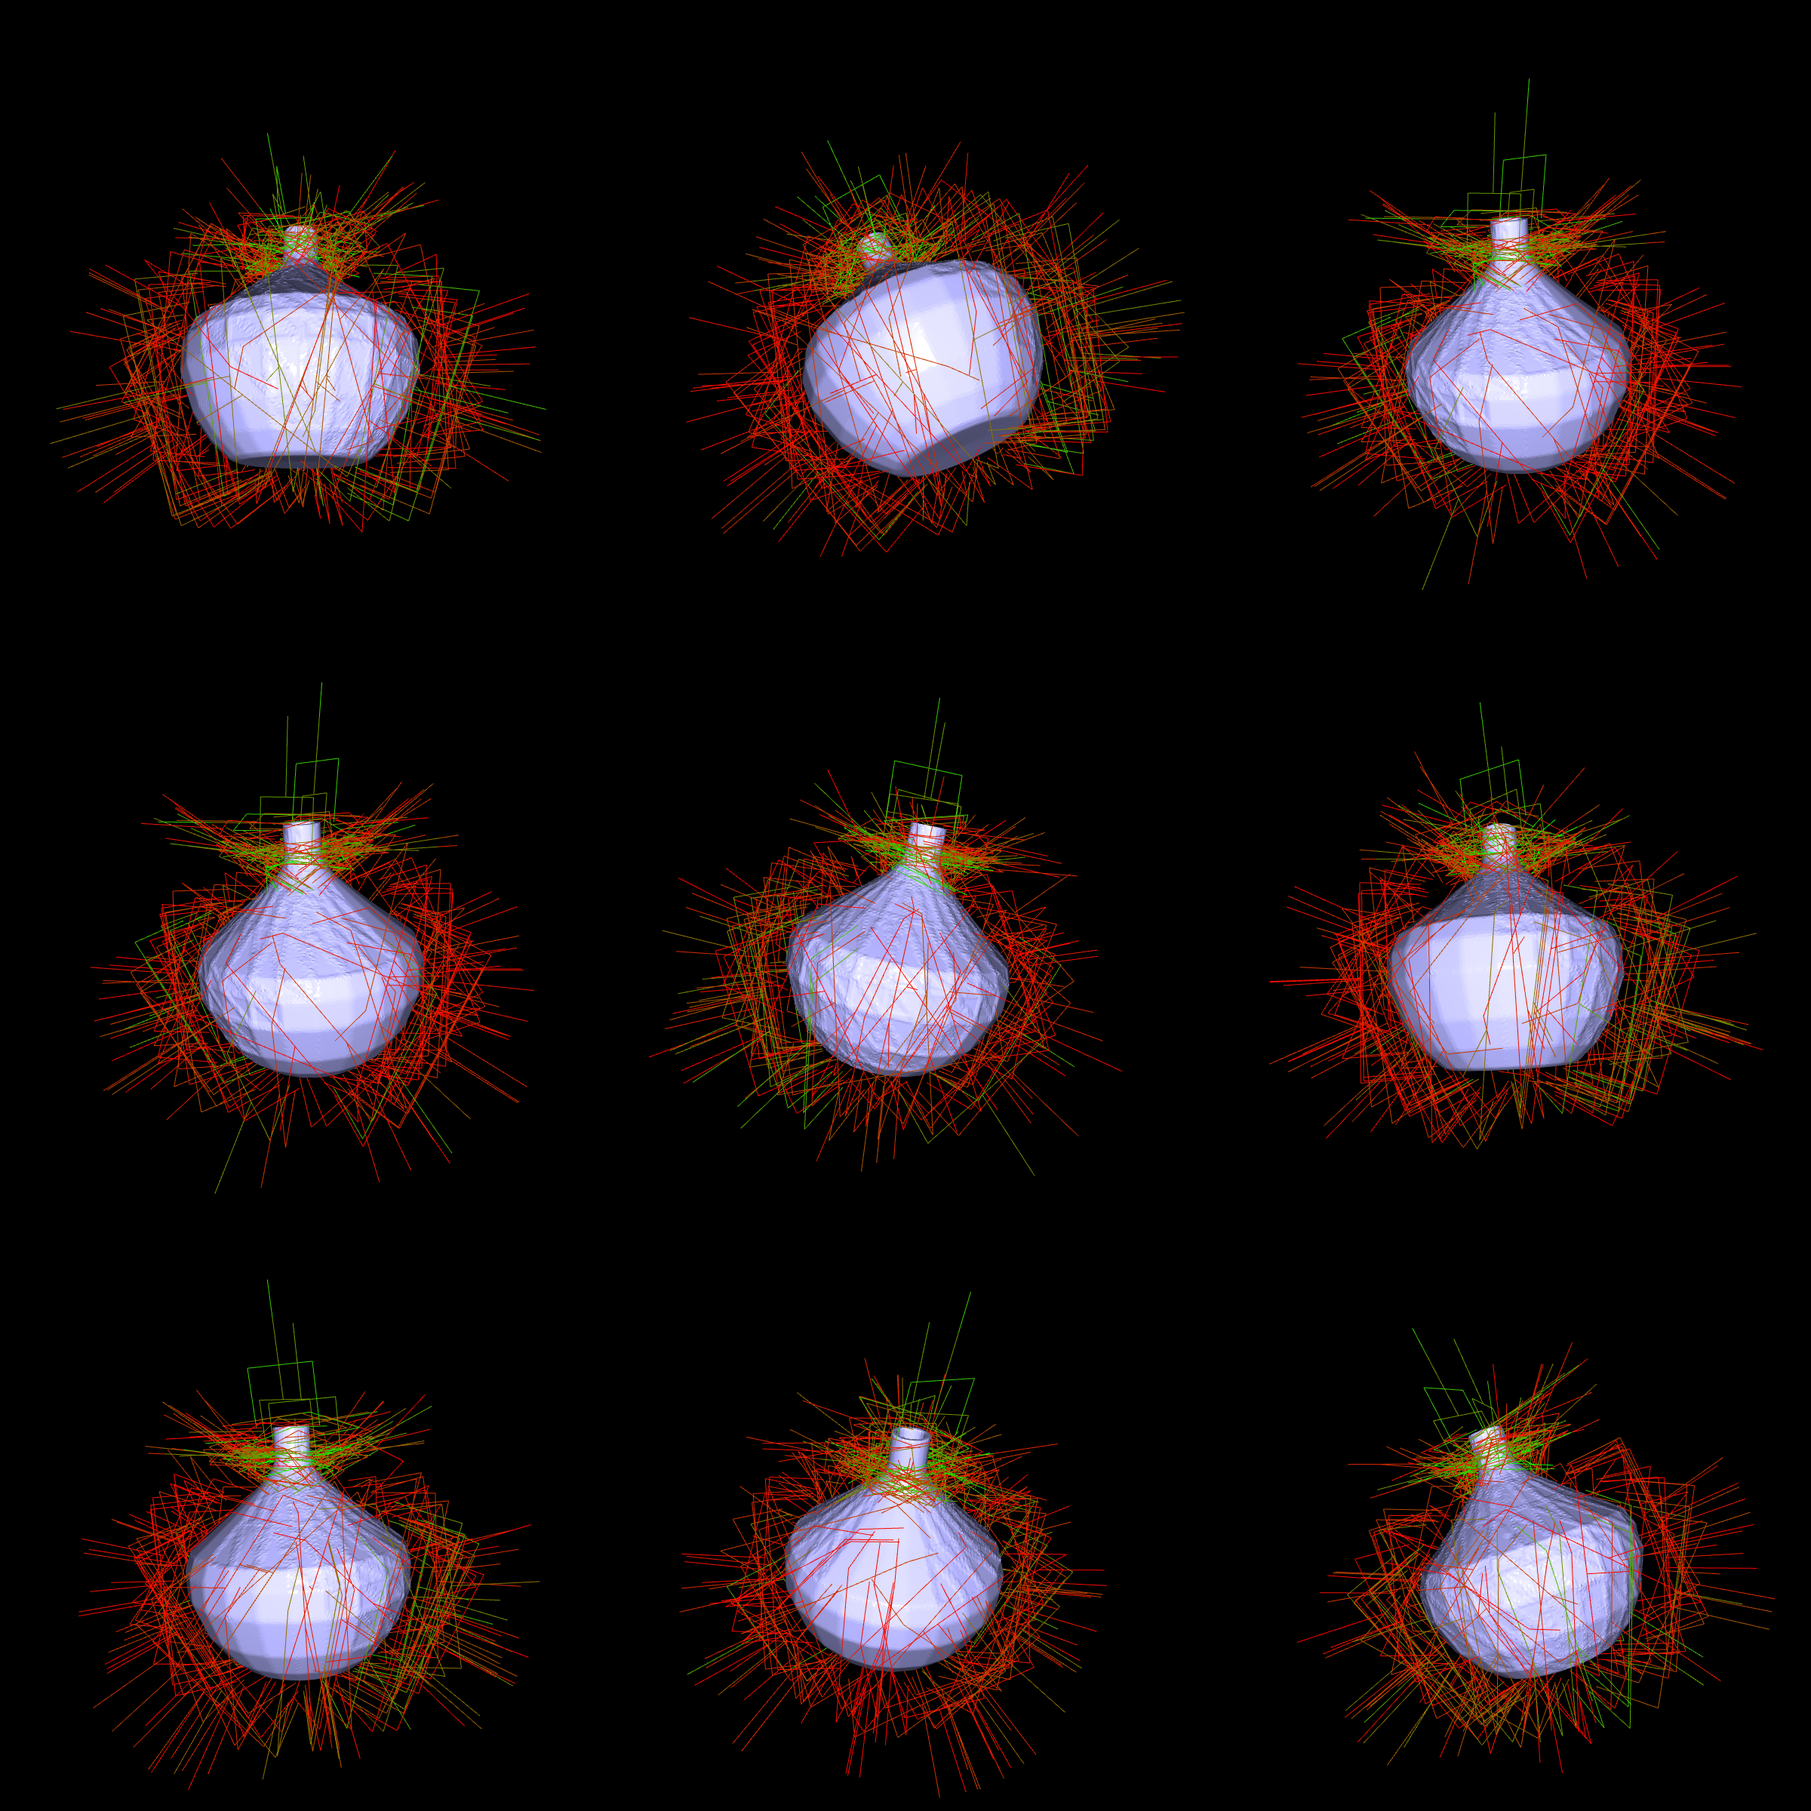
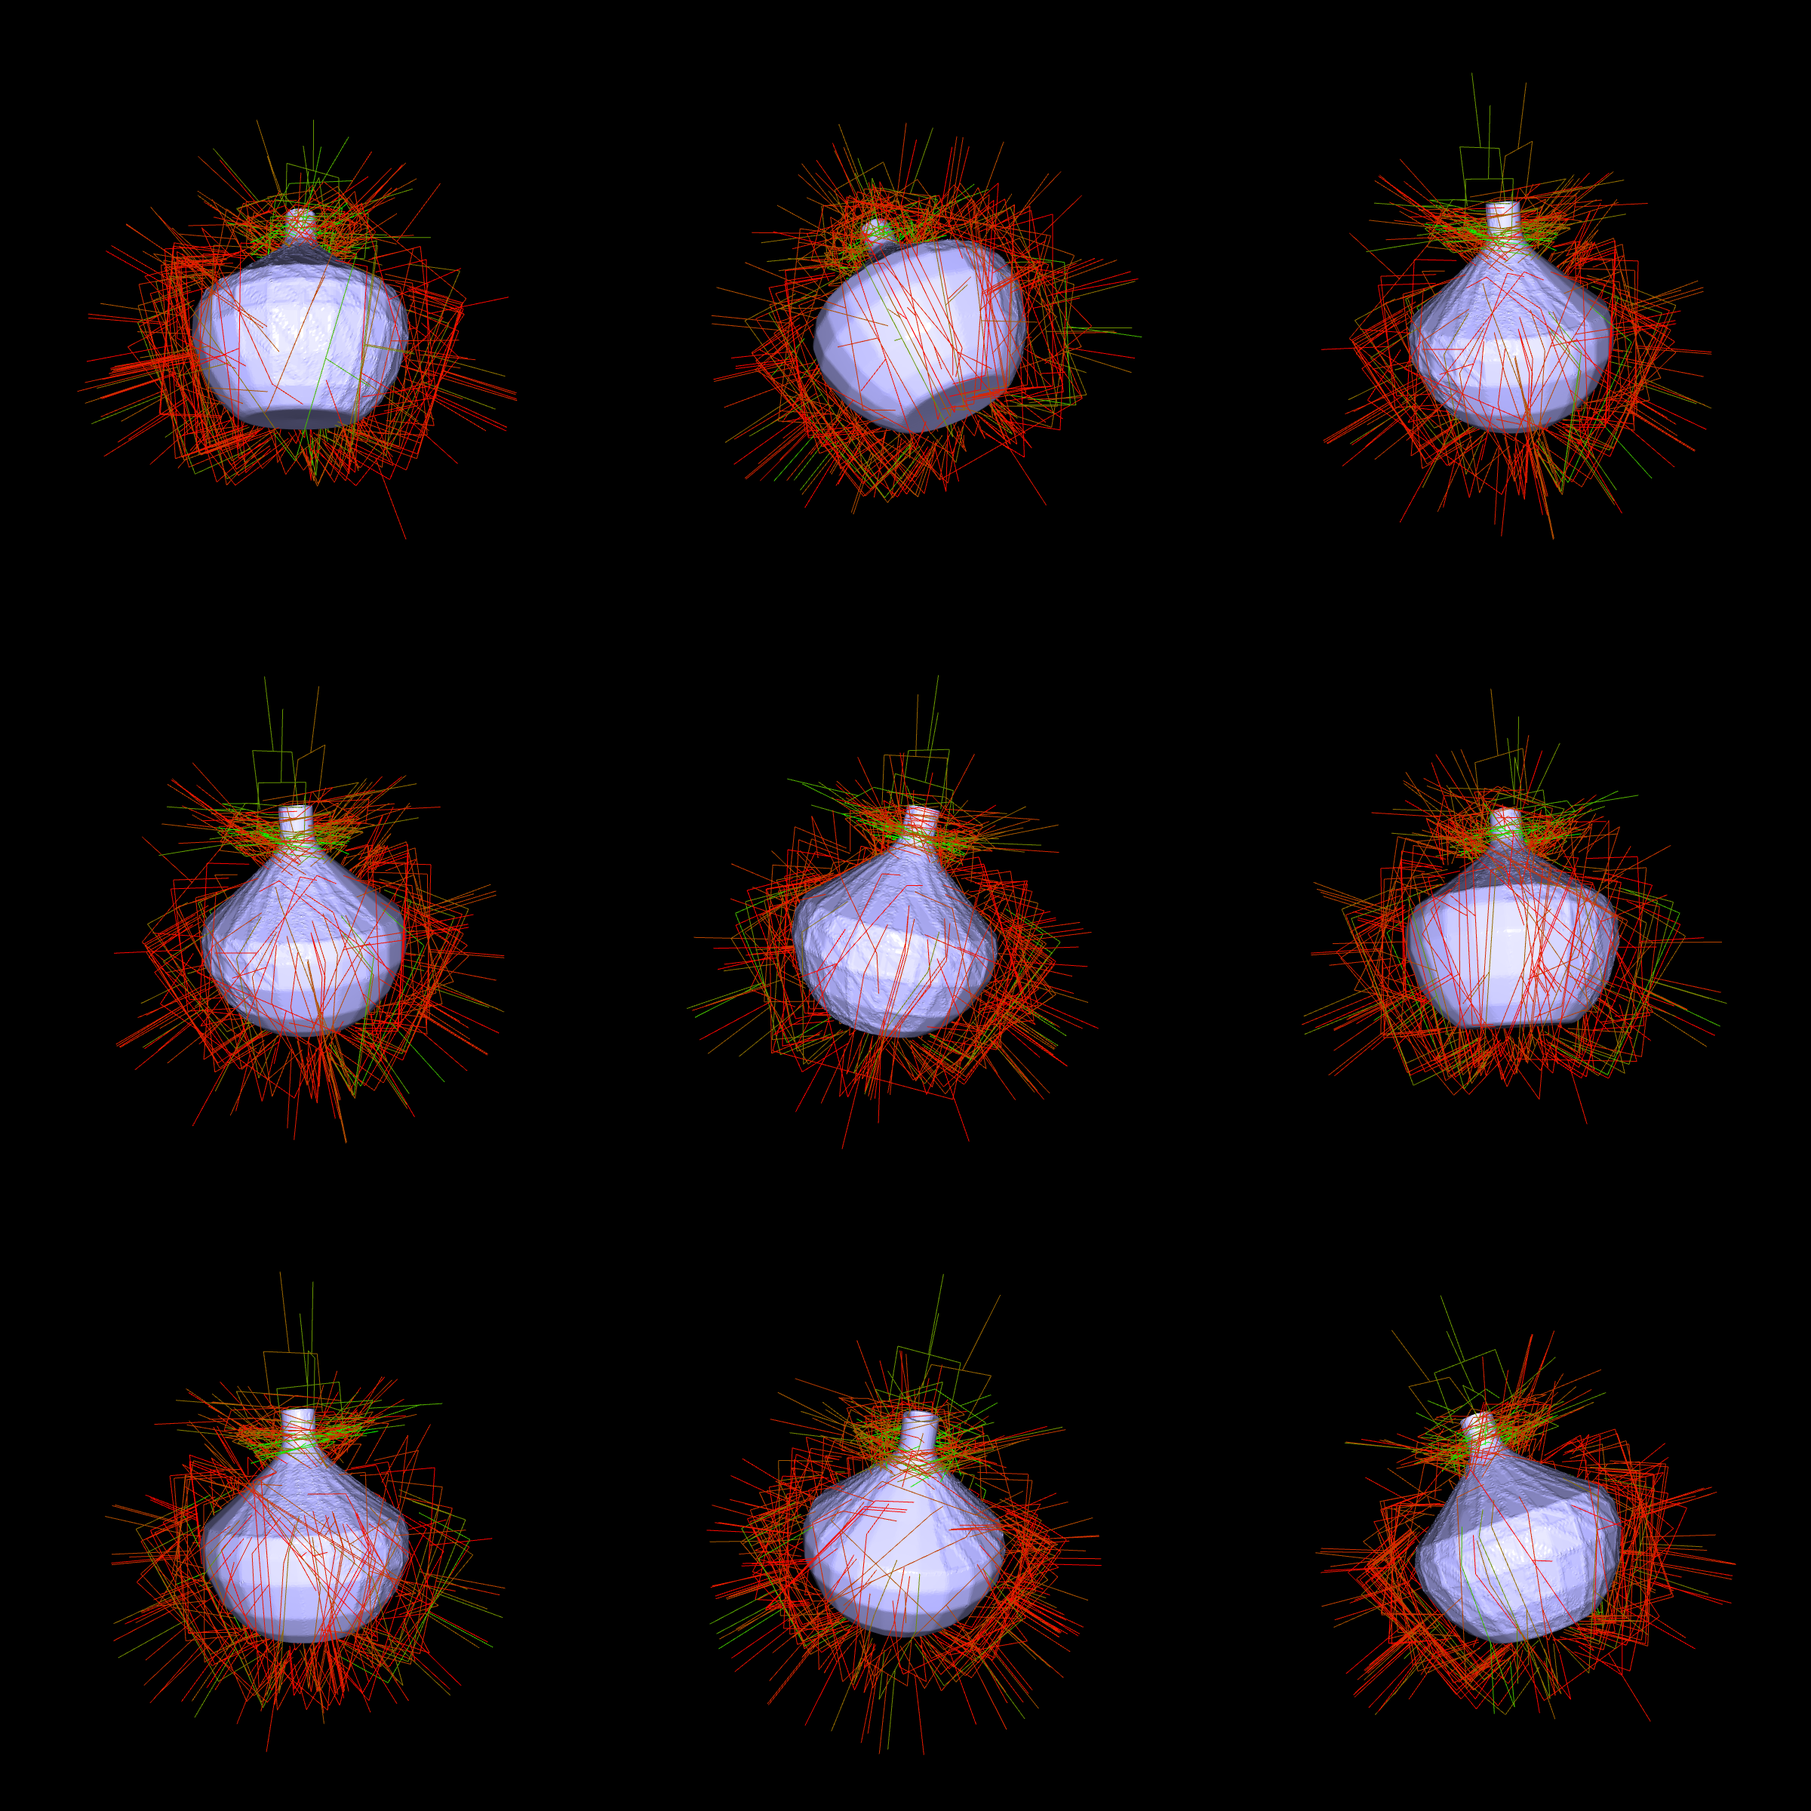
update

diff --git a/scripts/visualize.py b/scripts/visualize.py
@@ -1,8 +1,9 @@
 """
 Visualization script for grasps from a JSON file.
 
-This script supports both interactive and headless rendering modes:
+This script supports both interactive and headless rendering modes with robust fallback handling:
 
+RENDERING MODES:
 1. Headless mode (default): 
    - No display window is shown
    - Suitable for servers without display
@@ -12,16 +13,37 @@ This script supports both interactive and headless rendering modes:
    - Shows interactive 3D window
    - Use --render flag to enable
 
-3. Headless rendering techniques:
-   - Prefers Open3D OffscreenRenderer for true headless operation
-   - Falls back to hidden window rendering if OffscreenRenderer unavailable
-   - Similar to the example provided using OffscreenRenderer
+HEADLESS RENDERING OPTIONS:
+- Traditional (recommended): Stable hidden window method using Open3D Visualizer
+- Experimental: OffscreenRenderer for true headless operation (may have geometry compatibility issues)
 
-Usage examples:
-    python visualize.py object_name                          # Headless mode (no display)
-    python visualize.py object_name --save-png output.png    # Headless + save image
-    python visualize.py object_name --render                 # Interactive mode
-    python visualize.py object_name --display                # Force display mode
+The script automatically falls back to traditional rendering if OffscreenRenderer fails,
+ensuring robust operation across different environments and geometry types.
+
+COMMAND-LINE OPTIONS:
+  --render                    Show interactive visualization window
+  --save-png <file>          Save visualization as PNG (supports 9-shot collage)
+  --use-offscreen            Enable experimental OffscreenRenderer (may be unstable with LineSet geometries)
+  --force-traditional        Force stable traditional hidden window rendering (recommended)
+  --compare                  Show both filtered (green) and unfiltered (red) grasps
+  --filtered                 Show only filtered grasps
+  --grasp-shape-only         Show only grasp lines without gripper mesh
+
+USAGE EXAMPLES:
+    # Headless mode (no display, no output)
+    python visualize.py object_name
+    
+    # Headless mode with 9-shot collage output (recommended)
+    python visualize.py object_name --save-png output.png --force-traditional
+    
+    # Interactive mode
+    python visualize.py object_name --render
+    
+    # Experimental OffscreenRenderer (may fail with complex geometries)
+    python visualize.py object_name --save-png output.png --use-offscreen
+    
+    # Compare filtered vs unfiltered grasps
+    python visualize.py object_name --compare --render
 """
 
 from __future__ import print_function
@@ -44,9 +66,11 @@ try:
     from open3d.visualization.rendering import OffscreenRenderer, MaterialRecord
     # Disable OffscreenRenderer by default due to stability issues with complex geometries
     OFFSCREEN_AVAILABLE = False  # Set to True to enable experimental OffscreenRenderer
-    print("OffscreenRenderer available but disabled by default. Using stable fallback method.")
+    print("OffscreenRenderer available but disabled by default for stability.")
+    print("Use --use-offscreen to enable experimental OffscreenRenderer.")
+    print("Use --force-traditional to force stable traditional rendering.")
 except ImportError:
-    print("Warning: OffscreenRenderer not available. Falling back to hidden window rendering.")
+    print("Warning: OffscreenRenderer not available. Using stable fallback method.")
     OFFSCREEN_AVAILABLE = False
 parser = argparse.ArgumentParser(description='Visualize grasps from a JSON file.')
 parser.add_argument('object_name', type=str)
@@ -62,7 +86,9 @@ parser.add_argument('--no-render', dest='render', action='store_false',
 parser.add_argument('--display', action='store_true', 
                    help='Force display mode even if no --render flag (overrides headless)')
 parser.add_argument('--use-offscreen', action='store_true',
-                   help='Enable experimental OffscreenRenderer (may be unstable)')
+                   help='Enable experimental OffscreenRenderer (may be unstable with complex geometries)')
+parser.add_argument('--force-traditional', action='store_true',
+                   help='Force traditional hidden window rendering (recommended for stability)')
 parser.add_argument('--grasp-shape-only', action='store_true',
                    help='Show only grasp shape lines without gripper mesh')
 parser.add_argument('--position', type=float, nargs=3, default=[0, 0, 0],
@@ -435,6 +461,131 @@ def get_color_plasma_org(x):
 def get_color_plasma(x):
     return tuple([float(1 - x), float(x) , float(0)])
 
+def convert_lineset_to_mesh(line_set, tube_radius=0.002):
+    """
+    Convert a LineSet to a mesh representation for OffscreenRenderer compatibility.
+    Creates small spheres at each line endpoint and cylinders for line segments.
+    """
+    try:
+        import open3d as o3d
+        
+        # Get points and lines
+        points = np.asarray(line_set.points)
+        lines = np.asarray(line_set.lines)
+        colors = np.asarray(line_set.colors) if len(line_set.colors) > 0 else None
+        
+        if len(points) == 0 or len(lines) == 0:
+            return None
+            
+        # Create a combined mesh for all line segments
+        combined_mesh = o3d.geometry.TriangleMesh()
+        
+        # For each line segment, create a small cylinder
+        for i, line in enumerate(lines):
+            start_point = points[line[0]]
+            end_point = points[line[1]]
+            
+            # Create a cylinder between the two points
+            height = np.linalg.norm(end_point - start_point)
+            if height < 1e-6:  # Skip degenerate lines
+                continue
+                
+            # Create cylinder
+            cylinder = o3d.geometry.TriangleMesh.create_cylinder(
+                radius=tube_radius, height=height, resolution=8
+            )
+            
+            # Align cylinder with line direction
+            direction = (end_point - start_point) / height
+            z_axis = np.array([0, 0, 1])
+            
+            # Calculate rotation to align z-axis with direction
+            if np.allclose(direction, z_axis):
+                rotation_matrix = np.eye(3)
+            elif np.allclose(direction, -z_axis):
+                rotation_matrix = np.array([[-1, 0, 0], [0, -1, 0], [0, 0, -1]])
+            else:
+                # Use Rodrigues' rotation formula
+                v = np.cross(z_axis, direction)
+                s = np.linalg.norm(v)
+                c = np.dot(z_axis, direction)
+                
+                vx = np.array([[0, -v[2], v[1]], [v[2], 0, -v[0]], [-v[1], v[0], 0]])
+                rotation_matrix = np.eye(3) + vx + np.dot(vx, vx) * ((1 - c) / (s * s))
+            
+            # Apply transformation
+            cylinder.rotate(rotation_matrix, center=(0, 0, 0))
+            cylinder.translate(start_point + direction * height / 2)
+            
+            # Set color if available
+            if colors is not None and i < len(colors):
+                color = colors[i]
+                cylinder.paint_uniform_color(color)
+            else:
+                cylinder.paint_uniform_color([0.6, 0.8, 0.6])  # Default green
+            
+            # Merge with combined mesh
+            combined_mesh += cylinder
+        
+        # Also add small spheres at endpoints for better visibility
+        for point in points:
+            sphere = o3d.geometry.TriangleMesh.create_sphere(radius=tube_radius * 1.5, resolution=8)
+            sphere.translate(point)
+            sphere.paint_uniform_color([0.8, 0.4, 0.4])  # Red spheres for endpoints
+            combined_mesh += sphere
+        
+        # Compute normals for the combined mesh
+        combined_mesh.compute_vertex_normals()
+        
+        return combined_mesh
+        
+    except Exception as e:
+        print(f"Warning: Failed to convert LineSet to mesh: {e}")
+        return None
+
+def prepare_geometry_for_offscreen(geom):
+    """
+    Prepare geometry for OffscreenRenderer by ensuring compatibility.
+    Converts problematic geometries and validates attributes.
+    """
+    try:
+        # Handle LineSet - convert to mesh
+        if isinstance(geom, o3d.geometry.LineSet):
+            print("Converting LineSet to mesh for OffscreenRenderer compatibility")
+            mesh_geom = convert_lineset_to_mesh(geom)
+            if mesh_geom is not None:
+                return mesh_geom
+            else:
+                print("Warning: Failed to convert LineSet, skipping")
+                return None
+        
+        # Handle TriangleMesh - ensure it has normals
+        elif isinstance(geom, o3d.geometry.TriangleMesh):
+            if len(geom.vertices) == 0:
+                print("Warning: Empty mesh, skipping")
+                return None
+            
+            # Ensure normals exist
+            if len(geom.vertex_normals) == 0:
+                geom.compute_vertex_normals()
+            
+            return geom
+        
+        # Handle PointCloud
+        elif isinstance(geom, o3d.geometry.PointCloud):
+            if len(geom.points) == 0:
+                print("Warning: Empty point cloud, skipping")
+                return None
+            return geom
+        
+        # Other geometry types - try to use as-is
+        else:
+            return geom
+            
+    except Exception as e:
+        print(f"Warning: Failed to prepare geometry: {e}")
+        return None
+
 def plot_mesh(mesh, color=None):
     """Convert trimesh to open3d mesh and return it."""
     assert type(mesh) == trimesh.base.Trimesh
@@ -735,37 +886,34 @@ def draw_scene(
                             renderer = OffscreenRenderer(width, height)
                             renderer.scene.set_background([0.0, 0.0, 0.0, 1.0])
                             
-                            # Add geometries with better error handling
+                            # Add geometries with robust error handling
                             geom_added = False
                             for j, geom in enumerate(geometries):
                                 try:
-                                    # Validate geometry before adding
-                                    if hasattr(geom, 'vertices') and len(geom.vertices) == 0:
-                                        print(f"Warning: Geometry {j} has no vertices, skipping")
+                                    # Prepare geometry for OffscreenRenderer compatibility
+                                    prepared_geom = prepare_geometry_for_offscreen(geom)
+                                    if prepared_geom is None:
+                                        print(f"Warning: Could not prepare geometry {j}, skipping")
                                         continue
-                                    if hasattr(geom, 'points') and len(geom.points) == 0:
-                                        print(f"Warning: Geometry {j} has no points, skipping")
-                                        continue
-                                        
-                                    # Ensure normals exist for meshes
-                                    if hasattr(geom, 'triangles') and hasattr(geom, 'vertex_normals'):
-                                        if len(geom.vertex_normals) == 0:
-                                            geom.compute_vertex_normals()
                                     
+                                    # Create material
                                     mat = MaterialRecord()
                                     mat.shader = "defaultUnlit"  # Use simpler shader to avoid attribute issues
                                     
-                                    # Set basic color without relying on complex attributes
-                                    if hasattr(geom, 'triangles'):  # Mesh
+                                    # Set basic color based on geometry type
+                                    if isinstance(prepared_geom, o3d.geometry.TriangleMesh):
                                         mat.base_color = [0.8, 0.8, 0.8, 1.0]
-                                    else:  # Point cloud or line set
+                                    elif isinstance(prepared_geom, o3d.geometry.PointCloud):
                                         mat.base_color = [0.6, 0.8, 0.6, 1.0]
+                                    else:
+                                        mat.base_color = [0.7, 0.7, 0.7, 1.0]
                                     
-                                    renderer.scene.add_geometry(f"geom_{j}", geom, mat)
+                                    renderer.scene.add_geometry(f"geom_{j}", prepared_geom, mat)
                                     geom_added = True
                                     
                                 except Exception as geom_e:
                                     print(f"Warning: Failed to add geometry {j}: {geom_e}")
+                                    # Continue with next geometry instead of failing completely
                                     continue
                             
                             if not geom_added:
@@ -818,7 +966,9 @@ def draw_scene(
                 print(f"Generated {len(images)} views using OffscreenRenderer")
                 
             except Exception as e:
-                print(f"OffscreenRenderer 9-shot failed ({e}), falling back to traditional method")
+                print(f"OffscreenRenderer 9-shot failed: {e}")
+                print("This is often due to LineSet compatibility issues or missing attributes.")
+                print("Falling back to traditional hidden window method...")
                 OFFSCREEN_AVAILABLE = False
                 images = []  # Clear any partial results
         
@@ -1015,11 +1165,14 @@ args = parser.parse_args()
 if hasattr(args, 'display') and args.display:
     args.render = True
 
-# Handle OffscreenRenderer override
-if hasattr(args, 'use_offscreen') and args.use_offscreen:
+# Handle OffscreenRenderer override and traditional rendering preference
+if hasattr(args, 'force_traditional') and args.force_traditional:
+    OFFSCREEN_AVAILABLE = False
+    print("Traditional rendering forced by user")
+elif hasattr(args, 'use_offscreen') and args.use_offscreen:
     if 'OffscreenRenderer' in globals():
         OFFSCREEN_AVAILABLE = True
-        print("OffscreenRenderer enabled by user request")
+        print("OffscreenRenderer enabled by user request (experimental)")
     else:
         print("Warning: OffscreenRenderer not available even though requested")
 
